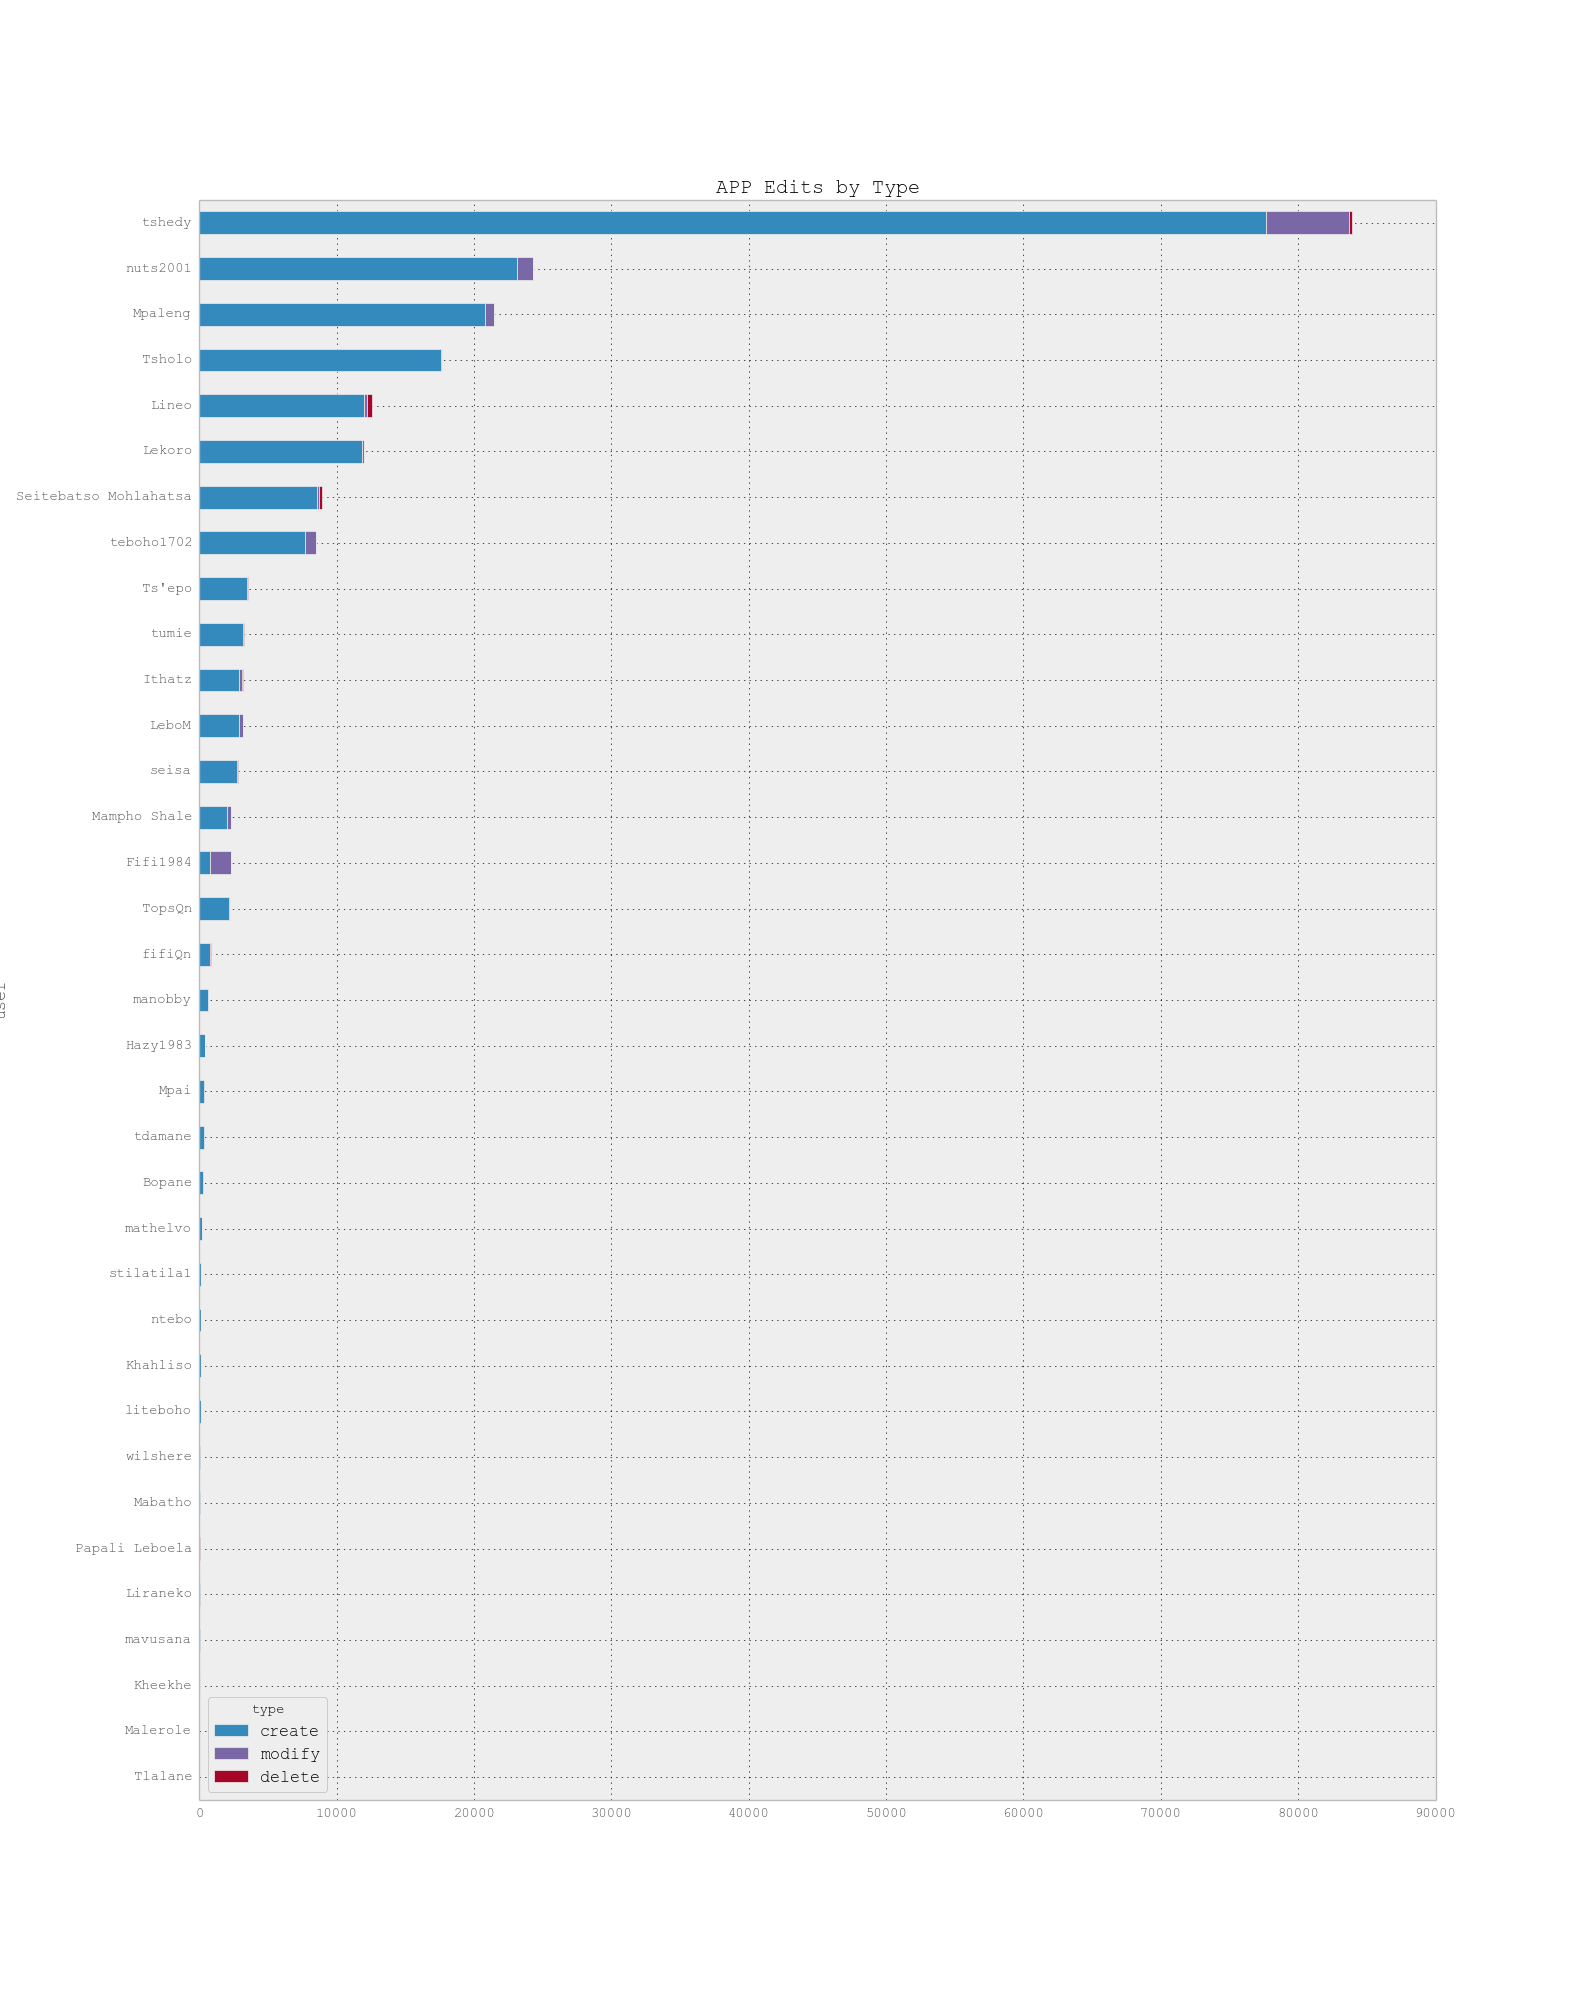
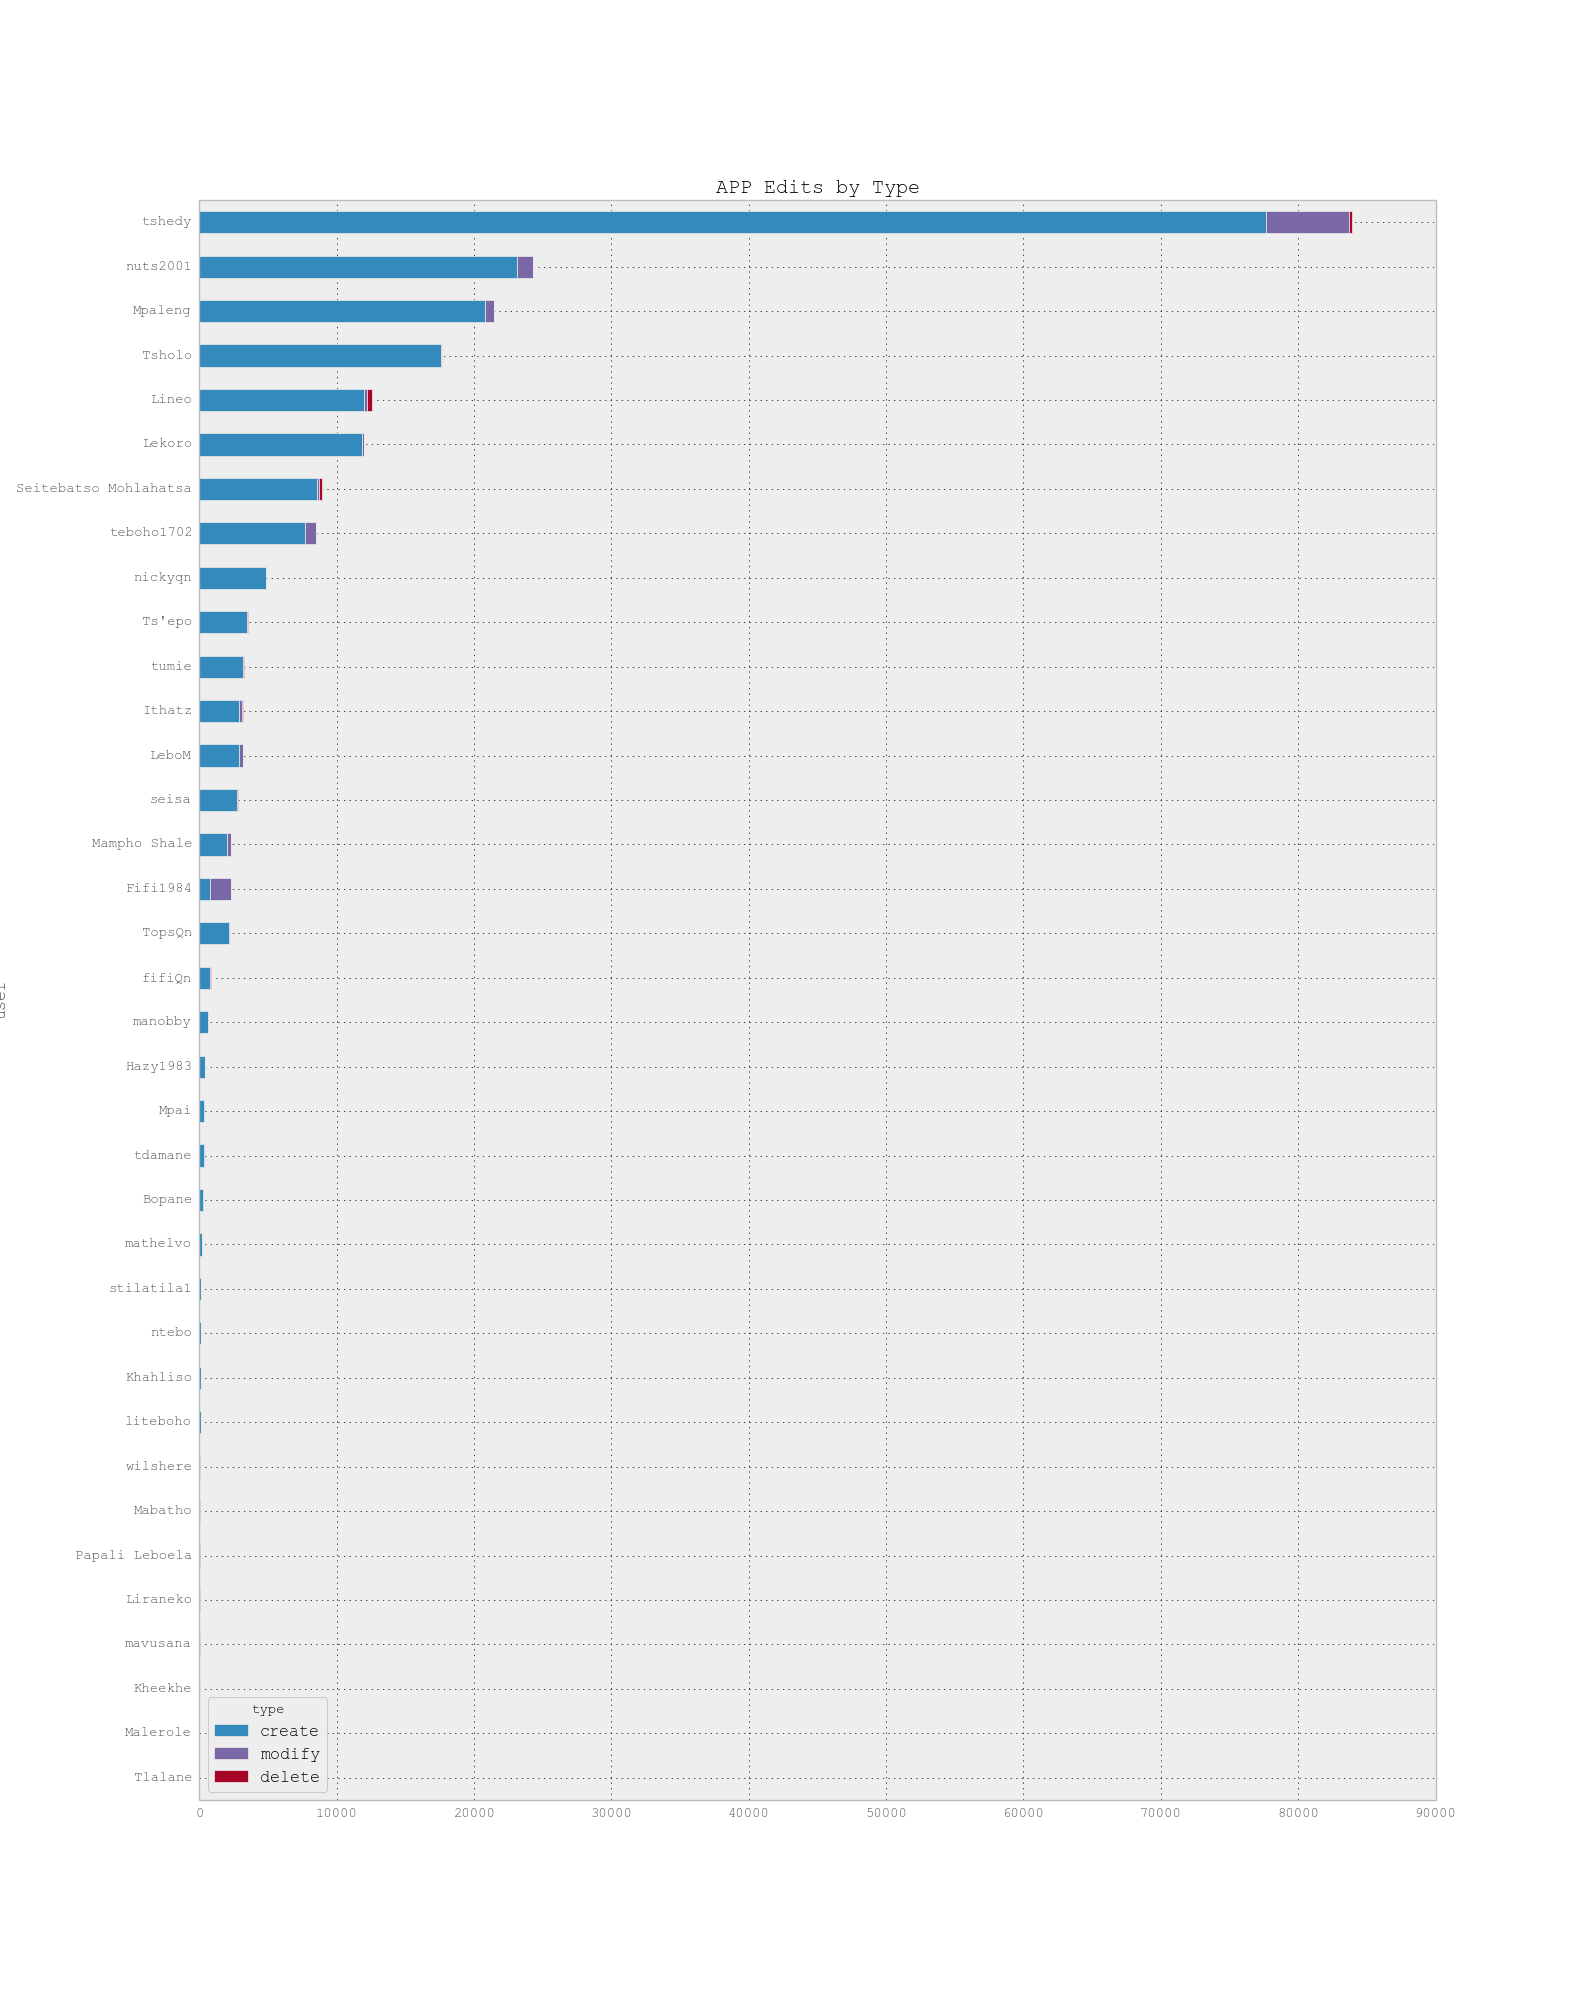
added new users for 28/07/15

diff --git a/index.html b/index.html
@@ -132,6 +132,14 @@
     </tr>
     <tr>
       <th>8</th>
+      <td>nickyqn</td>
+      <td>4840</td>
+      <td>30</td>
+      <td>0</td>
+      <td>4870</td>
+    </tr>
+    <tr>
+      <th>9</th>
       <td>Ts'epo</td>
       <td>3473</td>
       <td>39</td>
@@ -139,7 +147,7 @@
       <td>3518</td>
     </tr>
     <tr>
-      <th>9</th>
+      <th>10</th>
       <td>tumie</td>
       <td>3201</td>
       <td>21</td>
@@ -147,7 +155,7 @@
       <td>3228</td>
     </tr>
     <tr>
-      <th>10</th>
+      <th>11</th>
       <td>Ithatz</td>
       <td>2865</td>
       <td>82</td>
@@ -155,7 +163,7 @@
       <td>3210</td>
     </tr>
     <tr>
-      <th>11</th>
+      <th>12</th>
       <td>LeboM</td>
       <td>2908</td>
       <td>15</td>
@@ -163,7 +171,7 @@
       <td>3174</td>
     </tr>
     <tr>
-      <th>12</th>
+      <th>13</th>
       <td>seisa</td>
       <td>2772</td>
       <td>12</td>
@@ -171,7 +179,7 @@
       <td>2785</td>
     </tr>
     <tr>
-      <th>13</th>
+      <th>14</th>
       <td>Mampho Shale</td>
       <td>1987</td>
       <td>56</td>
@@ -179,7 +187,7 @@
       <td>2323</td>
     </tr>
     <tr>
-      <th>14</th>
+      <th>15</th>
       <td>Fifi1984</td>
       <td>809</td>
       <td>2</td>
@@ -187,7 +195,7 @@
       <td>2299</td>
     </tr>
     <tr>
-      <th>15</th>
+      <th>16</th>
       <td>TopsQn</td>
       <td>2186</td>
       <td>8</td>
@@ -195,7 +203,7 @@
       <td>2220</td>
     </tr>
     <tr>
-      <th>16</th>
+      <th>17</th>
       <td>fifiQn</td>
       <td>790</td>
       <td>31</td>
@@ -203,7 +211,7 @@
       <td>824</td>
     </tr>
     <tr>
-      <th>17</th>
+      <th>18</th>
       <td>manobby</td>
       <td>650</td>
       <td>0</td>
@@ -211,7 +219,7 @@
       <td>650</td>
     </tr>
     <tr>
-      <th>18</th>
+      <th>19</th>
       <td>Hazy1983</td>
       <td>401</td>
       <td>27</td>
@@ -219,7 +227,7 @@
       <td>442</td>
     </tr>
     <tr>
-      <th>19</th>
+      <th>20</th>
       <td>Mpai</td>
       <td>349</td>
       <td>0</td>
@@ -227,7 +235,7 @@
       <td>349</td>
     </tr>
     <tr>
-      <th>20</th>
+      <th>21</th>
       <td>tdamane</td>
       <td>301</td>
       <td>0</td>
@@ -235,7 +243,7 @@
       <td>301</td>
     </tr>
     <tr>
-      <th>21</th>
+      <th>22</th>
       <td>Bopane</td>
       <td>287</td>
       <td>0</td>
@@ -243,7 +251,7 @@
       <td>287</td>
     </tr>
     <tr>
-      <th>22</th>
+      <th>23</th>
       <td>mathelvo</td>
       <td>181</td>
       <td>0</td>
@@ -251,7 +259,7 @@
       <td>186</td>
     </tr>
     <tr>
-      <th>23</th>
+      <th>24</th>
       <td>stilatila1</td>
       <td>104</td>
       <td>25</td>
@@ -259,20 +267,12 @@
       <td>129</td>
     </tr>
     <tr>
-      <th>24</th>
+      <th>25</th>
       <td>ntebo</td>
       <td>93</td>
       <td>17</td>
       <td>1</td>
       <td>111</td>
-    </tr>
-    <tr>
-      <th>25</th>
-      <td>liteboho</td>
-      <td>95</td>
-      <td>5</td>
-      <td>0</td>
-      <td>100</td>
     </tr>
     <tr>
       <th>26</th>
@@ -284,6 +284,14 @@
     </tr>
     <tr>
       <th>27</th>
+      <td>liteboho</td>
+      <td>95</td>
+      <td>5</td>
+      <td>0</td>
+      <td>100</td>
+    </tr>
+    <tr>
+      <th>28</th>
       <td>wilshere</td>
       <td>73</td>
       <td>0</td>
@@ -291,7 +299,7 @@
       <td>73</td>
     </tr>
     <tr>
-      <th>28</th>
+      <th>29</th>
       <td>Mabatho</td>
       <td>65</td>
       <td>0</td>
@@ -299,7 +307,7 @@
       <td>65</td>
     </tr>
     <tr>
-      <th>29</th>
+      <th>30</th>
       <td>Papali Leboela</td>
       <td>0</td>
       <td>43</td>
@@ -307,7 +315,7 @@
       <td>43</td>
     </tr>
     <tr>
-      <th>30</th>
+      <th>31</th>
       <td>Liraneko</td>
       <td>38</td>
       <td>0</td>
@@ -315,7 +323,7 @@
       <td>38</td>
     </tr>
     <tr>
-      <th>31</th>
+      <th>32</th>
       <td>mavusana</td>
       <td>21</td>
       <td>0</td>
@@ -323,7 +331,7 @@
       <td>21</td>
     </tr>
     <tr>
-      <th>32</th>
+      <th>33</th>
       <td>Kheekhe</td>
       <td>17</td>
       <td>3</td>
@@ -331,7 +339,7 @@
       <td>20</td>
     </tr>
     <tr>
-      <th>33</th>
+      <th>34</th>
       <td>Malerole</td>
       <td>0</td>
       <td>4</td>
@@ -339,7 +347,7 @@
       <td>4</td>
     </tr>
     <tr>
-      <th>34</th>
+      <th>35</th>
       <td>Tlalane</td>
       <td>0</td>
       <td>3</td>
